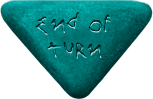
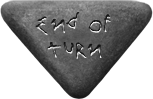
add some style

diff --git a/src/styles/style.css b/src/styles/style.css
@@ -10,6 +10,13 @@ body,
   margin: 0;
 }
 
+button, 
+button:active, 
+button:focus {
+    outline: none;
+}
+
+
 .turn {
   position: relative;
   left: 150px;
@@ -652,4 +659,42 @@ body,
     transform: translate(+1px, 0);
      opacity: 1;
   }
+}
+
+.end-turn-you {
+  z-index: 1;
+  width:153px;
+  height:99px;
+  background-image: url("assets/end_turn_active1.png");
+  background-repeat: no-repeat;
+  background-position: 50% 50%;
+  background-size: 100% 100%;
+  background-color: transparent;
+  border: none;
+  animation: rotate-up 1s linear 1;
+  transform: rotate(0deg);
+}
+
+.end-turn-enemy {
+  z-index: 1;
+  width:153px;
+  height:99px;
+  background-image: url("assets/end_turn_active1.png");
+  background-repeat: no-repeat;
+  background-position: 50% 50%;
+  background-size: 100% 100%;
+  background-color: transparent;
+  border: none; 
+  animation: rotate-down 1s linear 1;
+  transform: rotate(180deg);
+}
+
+@keyframes rotate-down {
+  0%  {transform: rotate(0deg);}
+  100% {transform: rotate(180deg);}   
+}
+
+@keyframes rotate-up {
+  0%  {transform: rotate(180deg);}
+  100% {transform: rotate(0deg);}   
 }

diff --git a/src/components/InfoContainer.js b/src/components/InfoContainer.js
@@ -36,12 +36,19 @@ var EndTurnButton = React.createClass({
     whoTurn: PropTypes.string.isRequired
   },
   render: function () {
-    return (
-      <button ref='endTurn'
-                onClick={this.props.nextTurn}>
-                {this.props.whoTurn}
-      </button>
-    );
+    if (this.props.whoTurn === 'you') {
+      return (
+        <button ref='endTurn' 
+        className={styles['end-turn-you']} 
+        onClick={this.props.nextTurn} >
+        </button>
+      );
+    } else {
+      return (
+        <button ref='endTurn' className={styles['end-turn-enemy']}>
+        </button>
+      );
+    }
   }
 });
 

diff --git a/src/components/App.jsx b/src/components/App.jsx
@@ -1,10 +1,10 @@
 import React from 'react';
 import {ConnectionStateContainer} from './ConnectionState';
-import 'style.css';
+import styles from 'styles/style.css';
 
 export default React.createClass({
   render: function() {
-    return <div className = 'app'>
+    return <div className = {styles['app']}>
       <ConnectionStateContainer />
       {this.props.children}
     </div>

diff --git a/src/main.js b/src/main.js
@@ -12,7 +12,6 @@ import App from './components/App';
 import {StartContainer} from './components/Start';
 import {GameContainer} from './components/Game';
 import styles from 'styles/style.css';
-import './styles/style.css';
 
 
 const socket = io(`${location.protocol}//${location.hostname}:3001`);

diff --git a/src/index.html b/src/index.html
@@ -7,6 +7,6 @@
   <link rel="stylesheet" href="//fonts.googleapis.com/css?family=Open+Sans:400,700"></link>
 </head>
 <body>
-  <div id="app"></div>
+  <div id="app" style="height:100%"></div>
 </body>
 </html>
